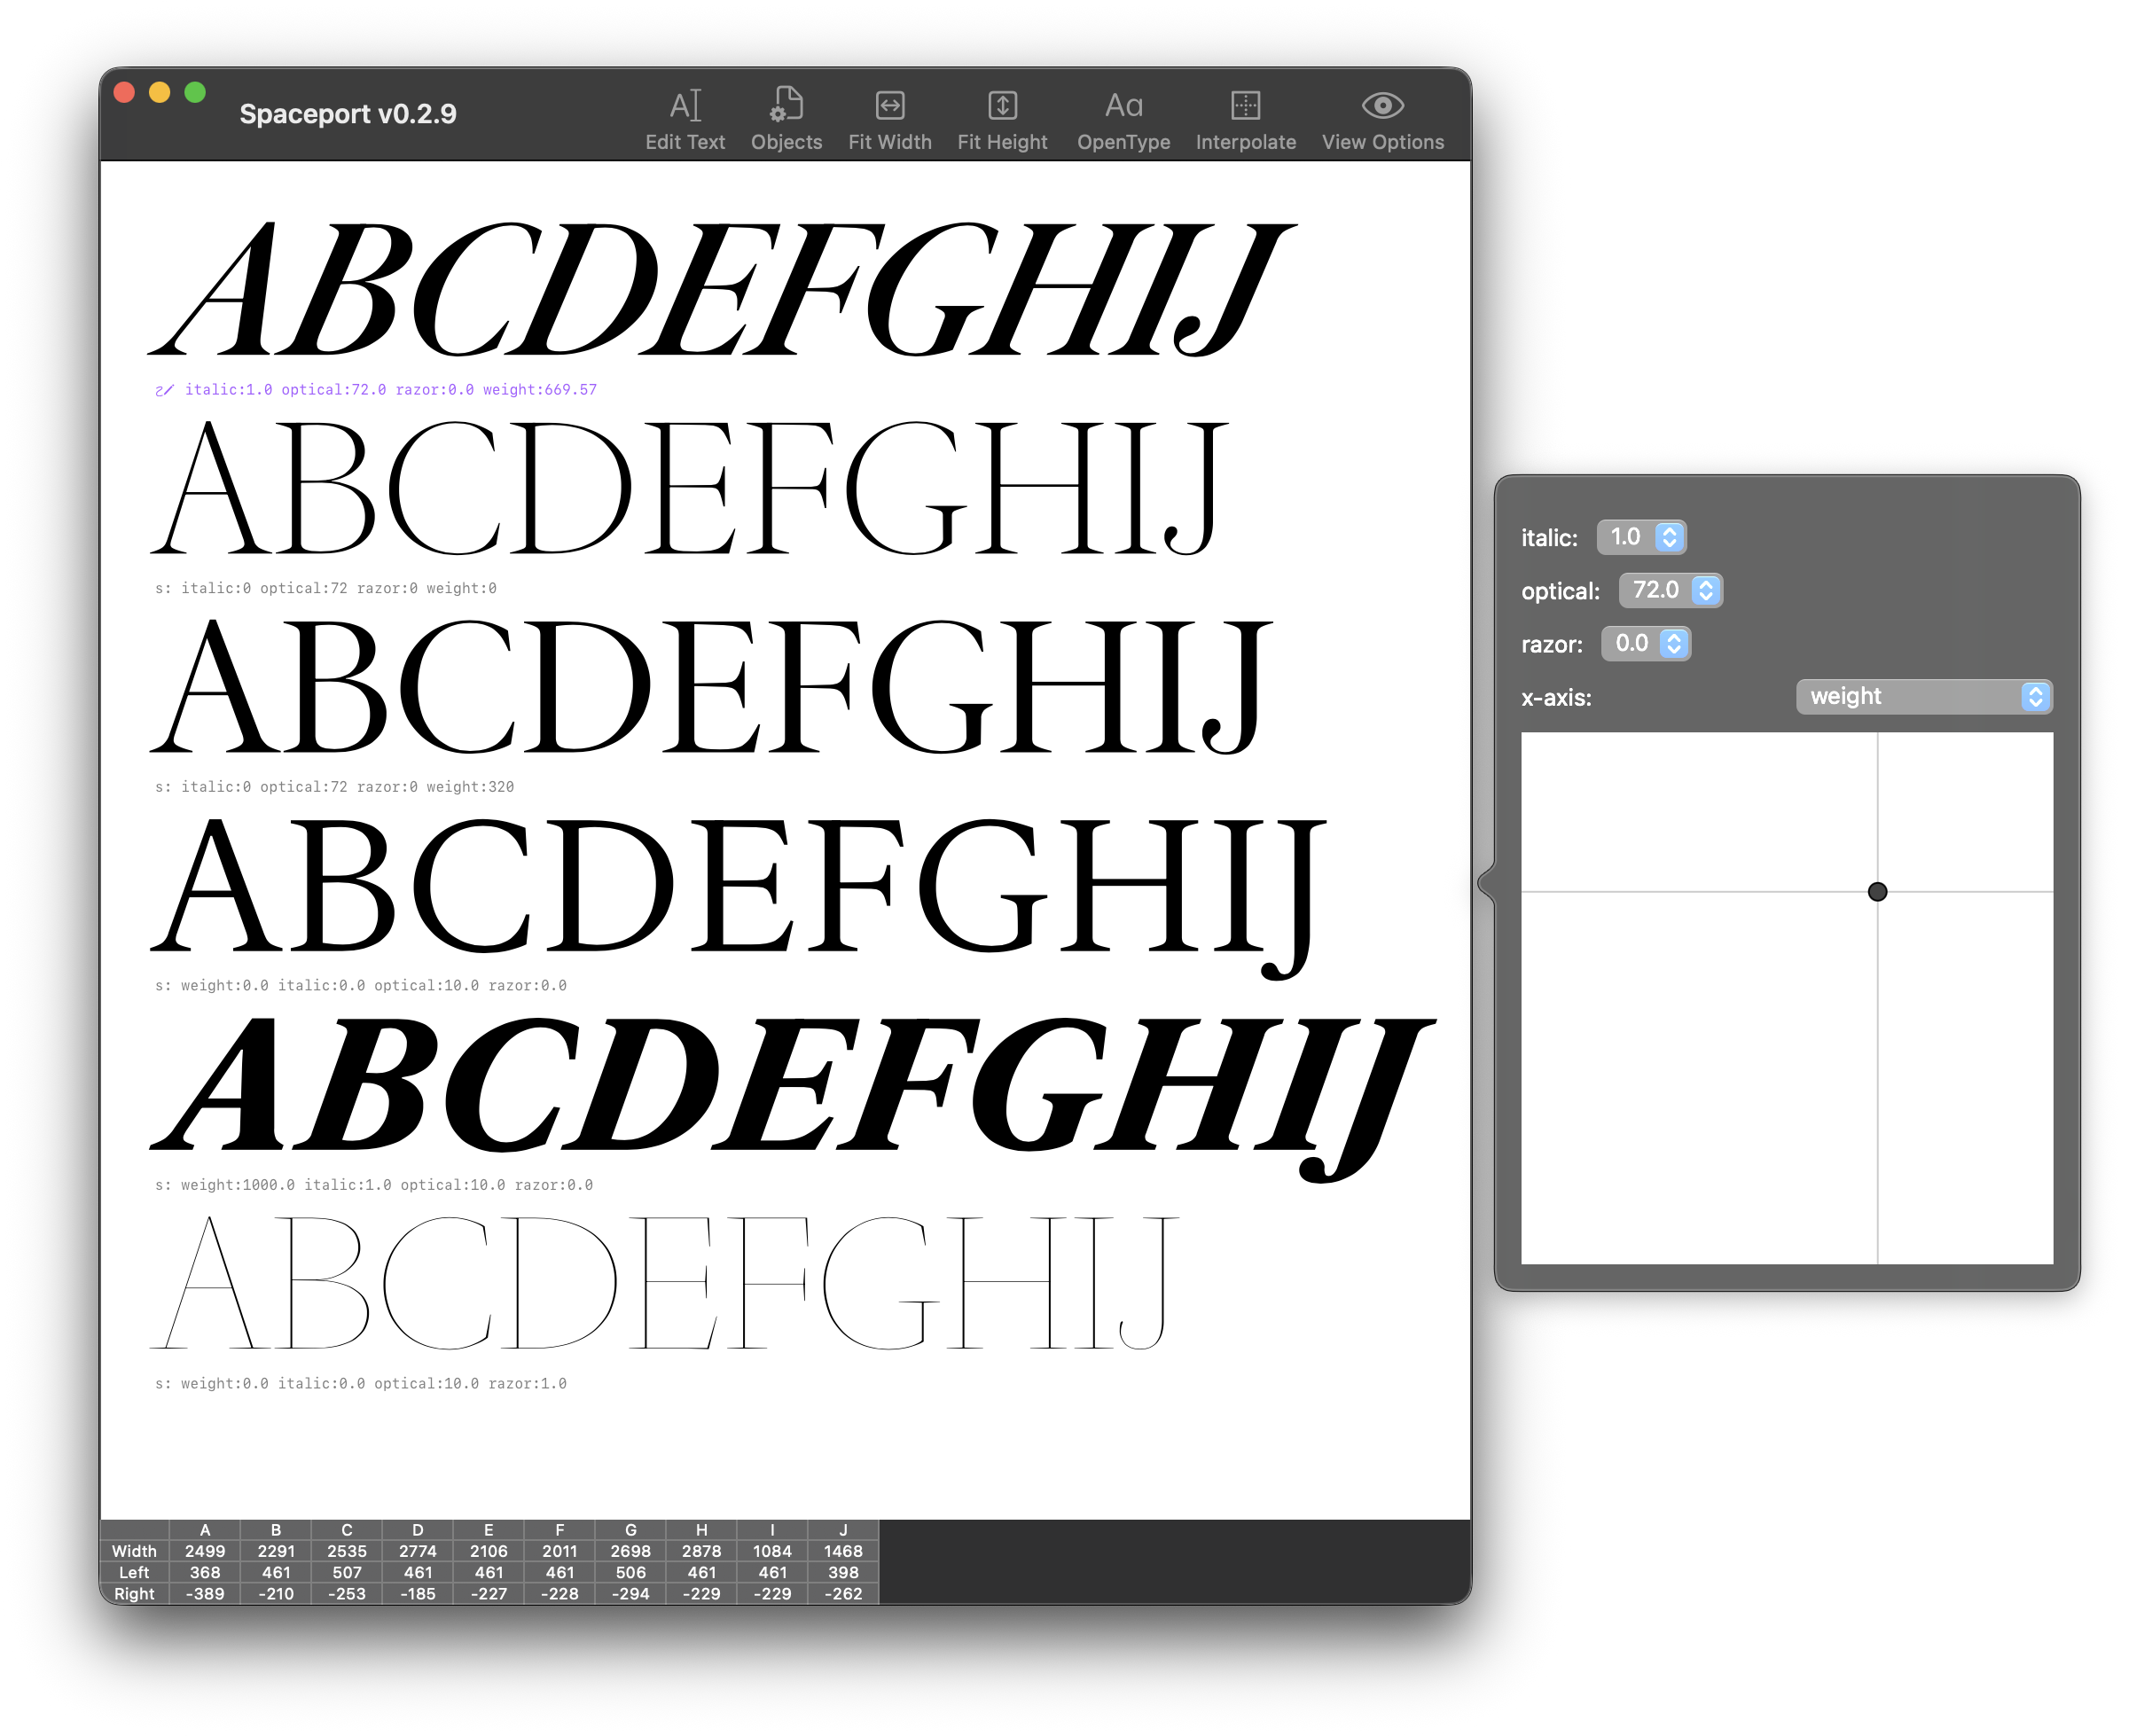
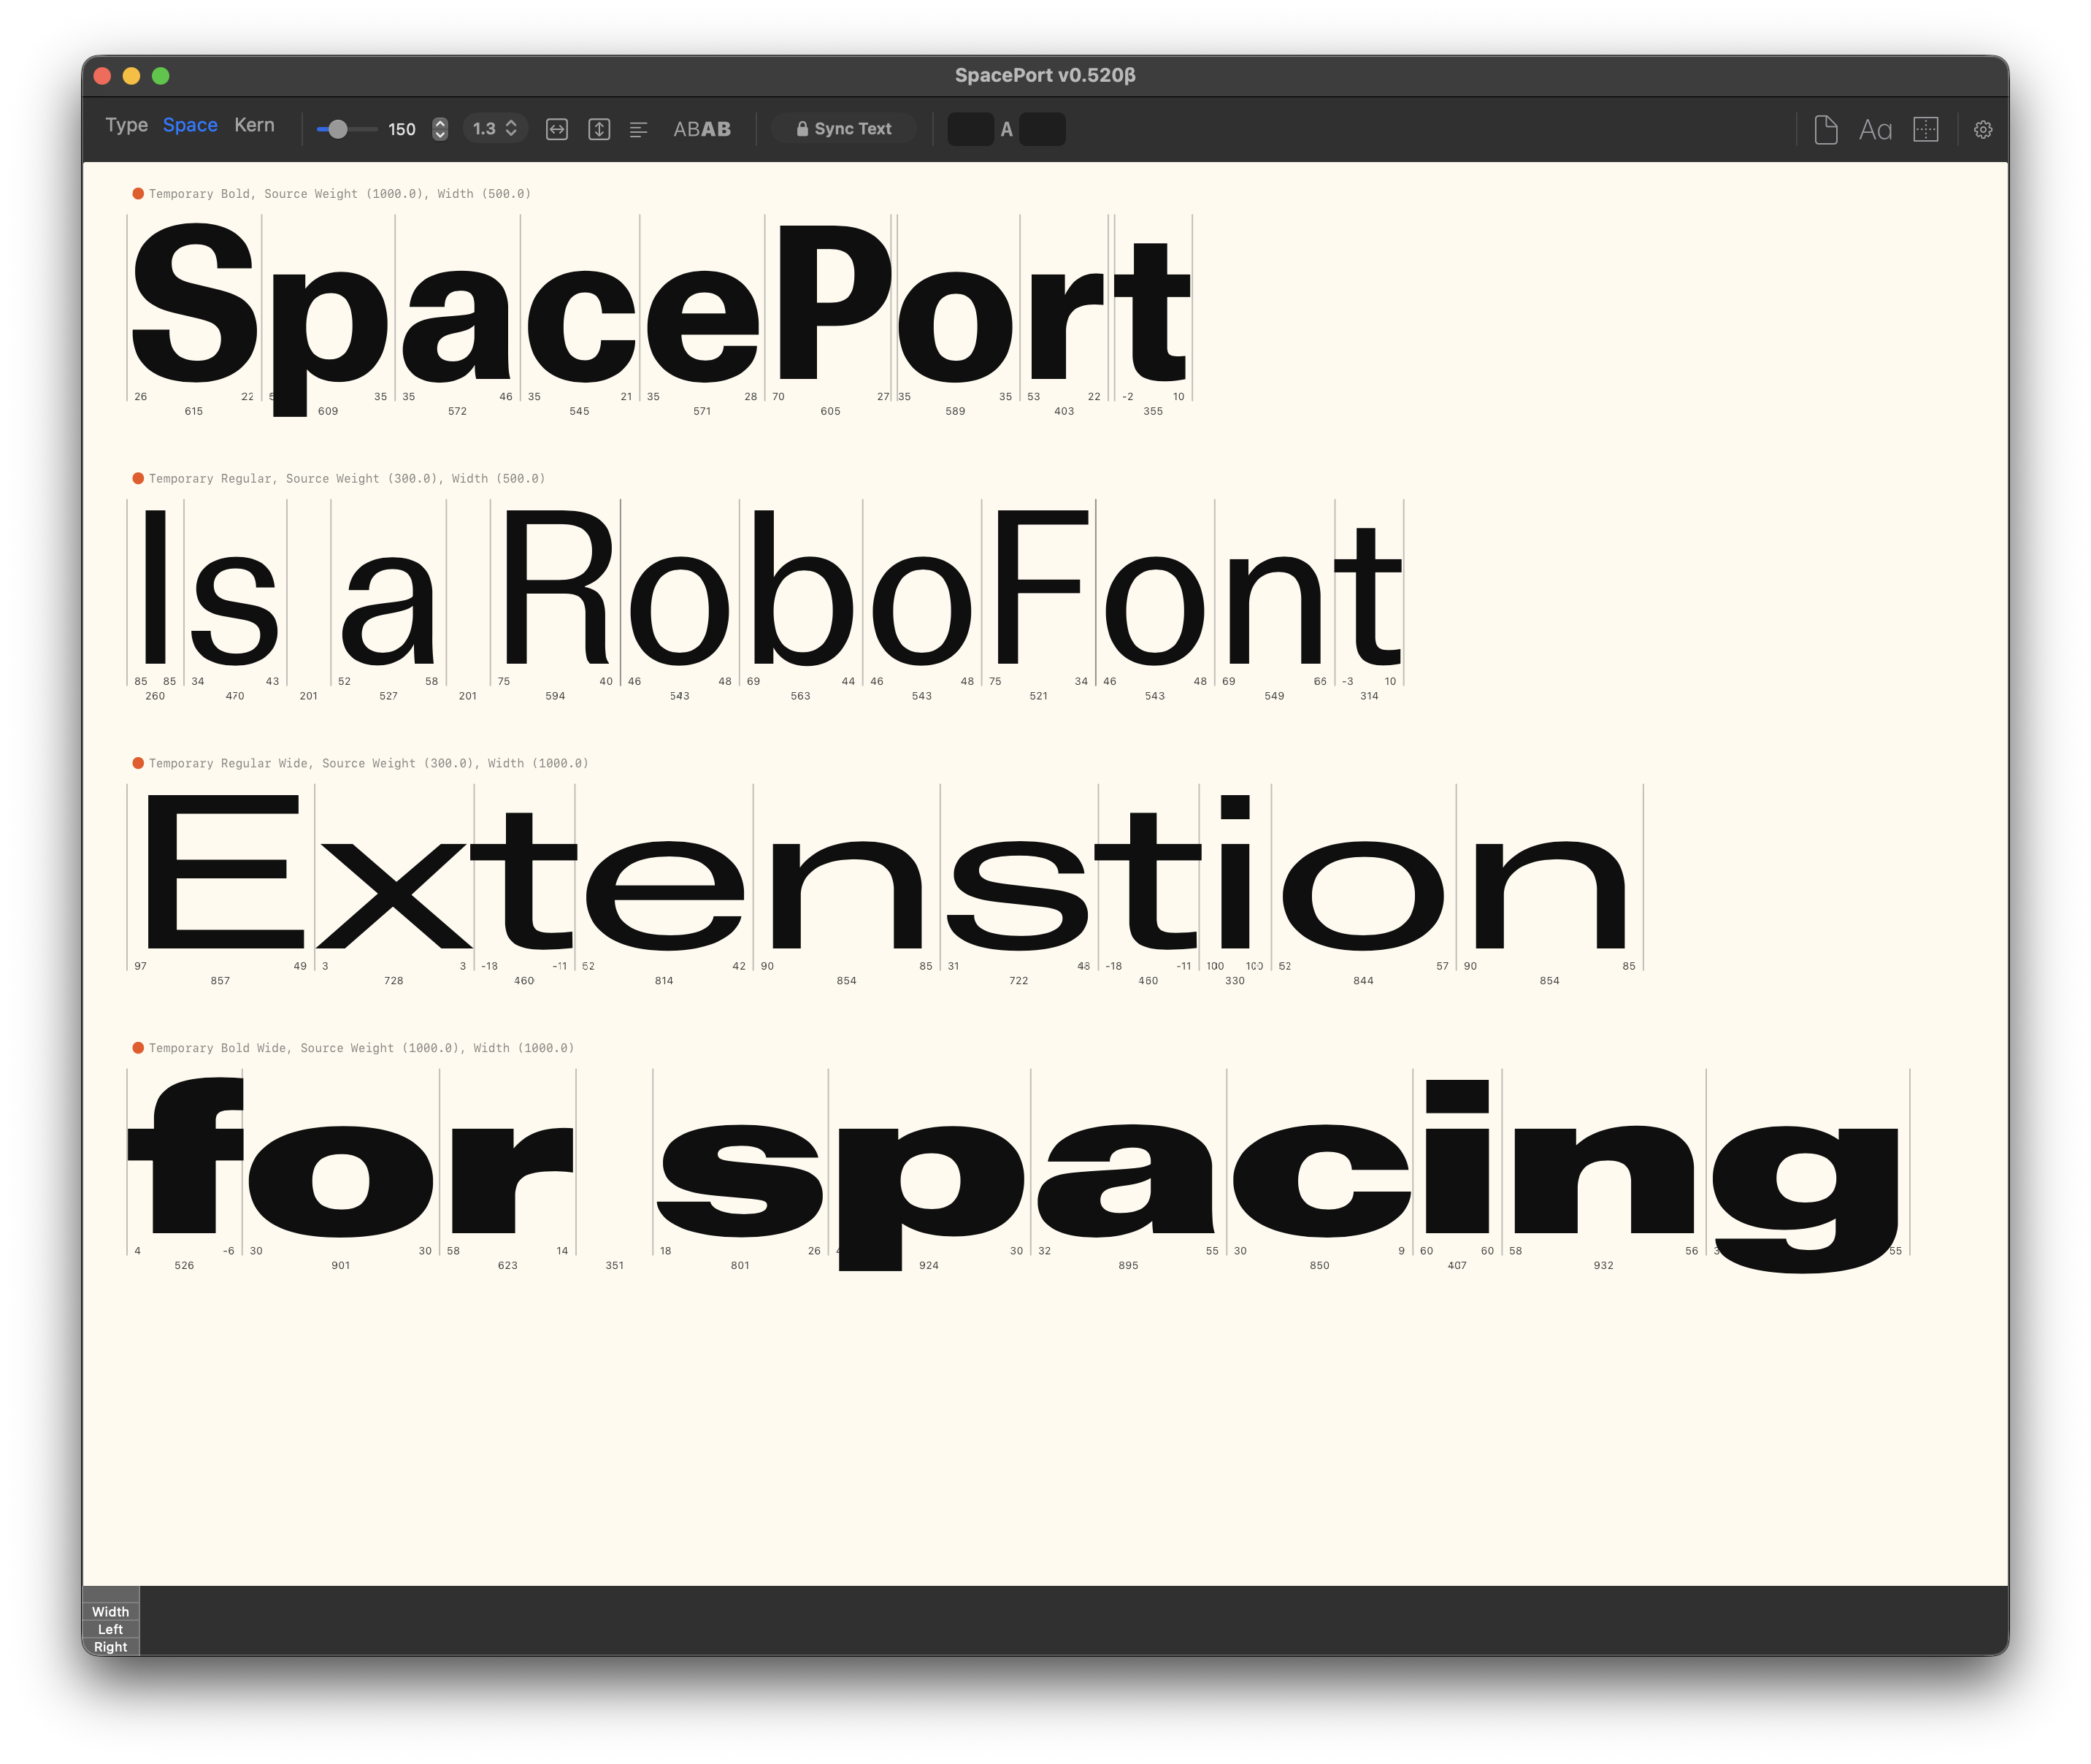
update readnme

diff --git a/README.md b/README.md
@@ -2,13 +2,18 @@
 ![Dynamic YAML Badge](https://img.shields.io/badge/dynamic/yaml?url=https%3A%2F%2Fraw.githubusercontent.com%2Fconnordavenport%2FBezierSurgeon%2Frefs%2Fheads%2Fmaster%2Finfo.yaml&query=%24.version&logo=data%3Aimage%2Fsvg%2Bxml%3Bbase64%2CPHN2ZyBlbmFibGUtYmFja2dyb3VuZD0ibmV3IDAgMCA2NCA2NCIgaWQ9InVuaTJCMjQiIHdpZHRoPSI3NSIgaGVpZ2h0PSI2OSIgdmVyc2lvbj0iMS4xIiB4bWxucz0iaHR0cDovL3d3dy53My5vcmcvMjAwMC9zdmciIHhtbG5zOnhsaW5rPSJodHRwOi8vd3d3LnczLm9yZy8xOTk5L3hsaW5rIj48cGF0aCB0cmFuc2Zvcm09InNjYWxlKDEgLTEpIHRyYW5zbGF0ZSgwLCAtNjkpIiBkPSJNNDAgNjlDNTkgNjkgNzUgNTUgNzUgMzdDNzUgMTYgNTYgMCAzNSAwQzE2IDAgMCAxNSAwIDMyQzAgNTMgMTggNjkgNDAgNjlaTTUxIDE2TDQ3IDI3QzQ1IDMyIDQ3IDM2IDUyIDM5TDMyIDU4QzMxIDU5IDMwIDU5IDI5IDU4TDIzIDMwQzMwIDMwIDMzIDI4IDM0IDI0TDM3IDEyWk00NCAzMEwzNSAyOEMzMyAzMSAyOCAzMiAyNiAzMkwzMSA1Nkw0OCAzOUM0NiAzNyA0MyAzNCA0NCAzMFpNMzYgNDNDMzQgNDMgMzMgNDIgMzMgNDBDMzMgMzcgMzUgMzUgMzcgMzVDMzggMzUgMzkgMzYgMzkgMzhDMzkgNDAgMzggNDMgMzYgNDNaIi8%2BPC9zdmc%2B&label=Ext.%20Version&labelColor=white)
 ![GitHub commit activity](https://img.shields.io/github/commit-activity/w/connordavenport/BezierSurgeon?logo=GitHub&logoColor=black&labelColor=white)
 
-# SpacePort
+# Spaceport
 
-SpacePort is currently in beta development.
+## DOCUMENTATION IS NOT UP TO DATE
+
+Spaceport is currently in beta development.
+
 
 Developed by Connor Davenport
 
-Designed and Sponsored by Vincent Chan
+Designed by Vincent Chan and Connor Davenport
+
+Sponsored by Vincent Chan
 
 ![UI Image](./images/ui_screenshot.png)
 
@@ -17,7 +22,7 @@ Designed and Sponsored by Vincent Chan
 ### Spacing
 
 Arrow Keys: `← → ↓ ↑`
-SpacePort allows you to modify glyph(s) spacing via the arrow keys, optionally with modifiers to change the increments.
+Spaceport allows you to modify glyph(s) spacing via the arrow keys, optionally with modifiers to change the increments.
 With at least one selected item, you can edit the spacing. If more than one item is selected, it will apply the delta globally to those glyphs.
 
 `shift + command = 100` 
@@ -32,7 +37,7 @@ With at least one selected item, you can edit the spacing. If more than one item
 
 `command z` Call and apply the selected glyphs' undo manager stack
 
-`command t` Open typing pane
+`command t` Toggle between _Typing_ and _Spacing_ modes
 
 `command ;` Open objects manager sheet
 
@@ -42,7 +47,13 @@ With at least one selected item, you can edit the spacing. If more than one item
                     
 `b` Toggle beam visibility
 
-> The following keys are extracted from the users' preferences
+`m` Toggle metrics visibility
+
+`l` Toggle label visibility
+
+`l` Toggle apply kerning
+
+##### The following keys are extracted from the users' preferences
 
 `glyphViewZoomInKey` Zoom in `e.g. z`
 
@@ -51,8 +62,7 @@ With at least one selected item, you can edit the spacing. If more than one item
 
 ## Mouse Controls
 
-
-When selecting a glyph inside the SpacePort view there are several modifiers available.
+When selecting a glyph inside the Spaceport view there are several modifiers available.
 
 `shift` will allow for multi-glyph selection
 
@@ -61,70 +71,6 @@ When selecting a glyph inside the SpacePort view there are several modifiers ava
 _Note: `shift` and `option` are not able to be combined!_
 
 Double clicking a single item will open a `DoodleGlyphWindow` for that glyph.
-
-
-## User Interface
-
-### Main Window
-#### Toolbar
-
-`Edit Text` Open typing pane
-
-`Objects` Open objects manager sheet
-
-`Fit Width` Fit contents of view to view's width
-
-`Fit Height` Fit contents of view to view's height
-
-`OpenType` ***Not Implemented***
-
-`Interpolate` Open DesignSpace view/editor sheet
-
-`View Options` Open display settings popup
-
-#### Item View
-
-All of your items:)
-
-#### Space Matrix
-
-The same old matrix that you know and love from SpaceCenter!
-
-
-### Typing Pane
-
-`point size`
-
-`line height`
-
-`leading text`
-
-`text`
-
-`trailing text`
-
-
-### Display Settings
-
-`beam toggle` Toggle the beam in the view
-
-`beam position slider` Adjust beam position, maximum value == font's UPM
-
-`multiline toggle` Toggle line breaks between separate fonts in the view
-
-`kerning toggle` Toggle kerning in the view
-
-`display metrics toggle` Toggle metrics values in the view
-
-`space matrix toggle` Toggle space matrix
-
-`move space matrix position` Move the space matrix between the top or botttom of the window
-
-`invert colors` Toggle between "black on white" or "white on black" text
-
-`glyph drawing settings` Toggle between what glyph attributes are displayed; stroke, fill, or points
-
-`text alignment` Toggle text alignment; left, center, or right.
 
 
 ### Objects Manager